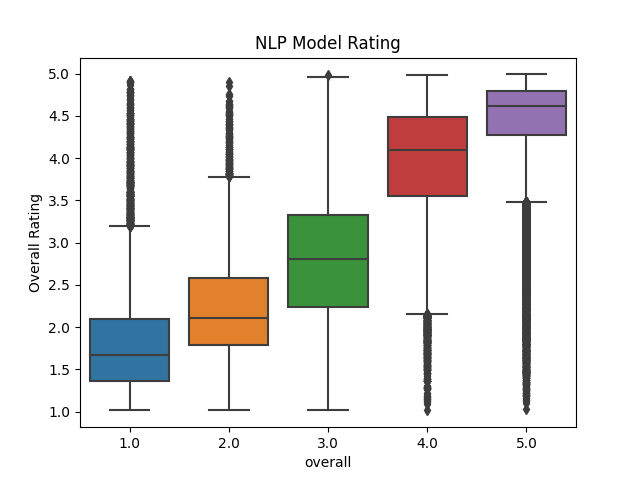
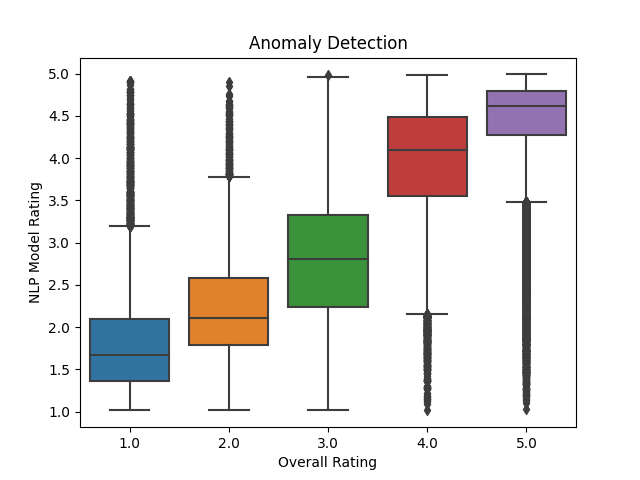
Anomaly detection labels are updated

Changed region(s): [[0.375, 0.0625, 0.625, 0.125], [0.4375, 0.9375, 0.5938, 1.0], [0.0312, 0.375, 0.0625, 0.625]]

diff --git a/core/analysis.py b/core/analysis.py
@@ -40,7 +40,8 @@ class Analysis:
             .option("escape", '"').csv('data/Magazine_Sub_With_Rating.csv')
 
         sns.boxplot(x="overall", y="modelRating", data=new_data.toPandas())
-        plt.ylabel('Overall Rating')
-        plt.title('NLP Model Rating')
+        plt.xlabel('Overall Rating')
+        plt.ylabel("NLP Model Rating")
+        plt.title('Anomaly Detection')
         plt.savefig('outputs/anomaly_detection.png')
         plt.show()
